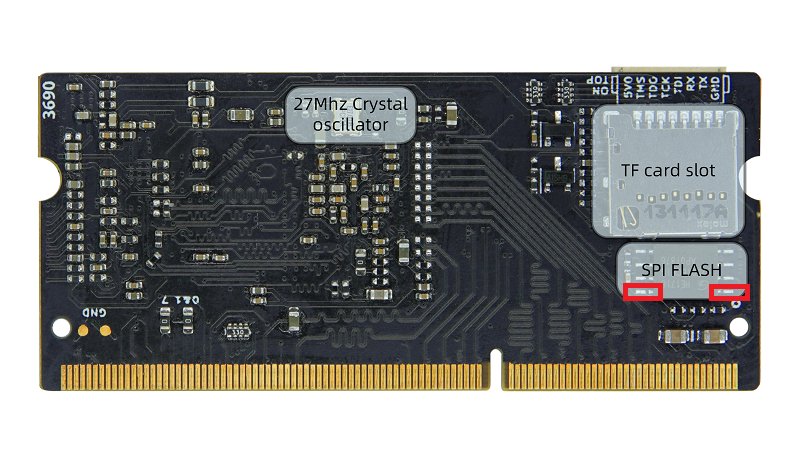
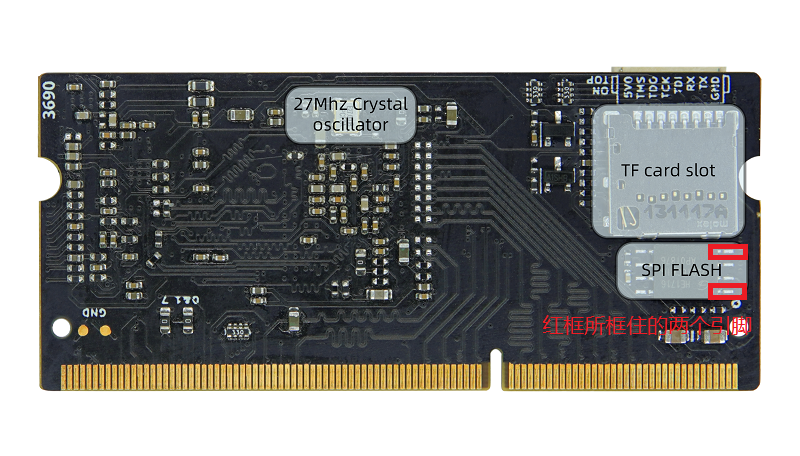
update

Changed region(s): [[0.6562, 0.614, 0.9375, 0.7368], [0.875, 0.5219, 0.9375, 0.5833]]

diff --git a/docs/hardware/zh/tang/tang-primer-20k/primer-20k.md b/docs/hardware/zh/tang/tang-primer-20k/primer-20k.md
@@ -277,9 +277,9 @@ Tang Primer 20K 是基于 [GW2A-V18PG256C8IC8I7](http://www.gowinsemi.com.cn/pro
 
 3. 如果进行完上面的点灯操作后后感觉有压力，可以自己查漏补缺：
    可以在下面的这些网站学习 Verilog:
-	+ 在线免费教程：[菜鸟教程](https://www.runoob.com/w3cnote/verilog-tutorial.html)（学习Verilog）
-	+ 在线免费 FPGA 教程：[Verilog](https://www.asic-world.com/verilog/index.html)
-	+ Verilog 刷题网站：[HDLBits](https://hdlbits.01xz.net/wiki/Main_Page)
+	+ 在线免费教程：[Verilog 教程](https://www.runoob.com/w3cnote/verilog-tutorial.html)（学习Verilog）
+	+ 在线免费 FPGA 教程：[Verilog](https://www.asic-world.com/verilog/index.html) （英文网站）
+	+ Verilog 刷题网站：[HDLBits](https://hdlbits.01xz.net/wiki/Main_Page)（英文网站）
 	+ 在线高云半导体视频教程：[点击这里](http://www.gowinsemi.com.cn/video_complex.aspx?FId=n15:15:26)
 
    对 IDE 使用有疑问的话，可以查看官方的一些文档来熟悉相关内容
@@ -294,11 +294,12 @@ Tang Primer 20K 是基于 [GW2A-V18PG256C8IC8I7](http://www.gowinsemi.com.cn/pro
 
 ## 例程汇总
 
-https://github.com/sipeed/TangPrimer-20K-example
+github 链接：https://github.com/sipeed/TangPrimer-20K-example
 
 部分教程：
 
 - Lite 底板点灯 ：<a href="https://wiki.sipeed.com/news/others/20k_lite_start/20k_lite_start.html" target="blank">点我跳转</a>
+- 例程指南: [点我跳转](./example.md)
 
 ## 交流方式
 
@@ -329,18 +330,22 @@ https://github.com/sipeed/TangPrimer-20K-example
 <!-- <img src="./assets/start/switch_1_on.png" alt="switch_1_on" width=20%> -->
 
 ### 如何下载到外部 FLASH
+
 进行如下选项设置：
 <img src="./assets/flash_mode.png" alt="flash_mode" width=75%>
 
 ### 烧录后没反应或者引脚现象不对
+
 首先确定选择了正确的型号，下图中的每一个参数都要求一致
 <img src="./assets/device_choose.png" alt="device_choose" width=75%>
 
 然后检查自己的代码和对应的仿真波形是否满足要求
 
 ### 成功烧录过一次外部 Flash 后 Programmer 软件无法再烧录
+
 注意描述是成功烧录过一次 Flash。
-这种情况默认为启用了错误的引脚复用而导致下载器不能再识别到 FPGA 的 JTAG。解决办法是在芯片通电前将核心板上的 Flash 使能引脚拉高来阻止 FPGA 加载固件。使用金属将板子上的 Flash 短接后再通电即可解决。短接的具体位置见下图 Flash 处两侧的红框处。
+
+这种情况默认为启用了错误的引脚复用而导致下载器不能再识别到 FPGA 的 JTAG。可以短接 Flash 的 1、4 引脚，让芯片上电时不能正常读 FLASH 。
 
 ![flash_cs](./assets/flash_cs.png)
 

diff --git a/docs/soft/maixpy/en/others/maixpy_faq.md b/docs/soft/maixpy/en/others/maixpy_faq.md
@@ -337,3 +337,31 @@ It's suggested to use camera provided by Sipeed, this can reduce many troubles l
 kmodel is a kind of model explaining the structure and parameters of this model.
 
 smodel requires Machine-code; Machine-code is a kind of encrypted way to encrypt the model. The development board can't use the smodel encrypted and generanted by other Machine-code.
+
+## How to run multiple models in the same time
+
+Try to run it in time-sharing instead of in the same time
+
+If the RAM is big enough to load target models, then load them all and run rhem in time-sharing.
+
+If the RAM is not big enough to load multiple models, try to load one model, and deinit it after finishing running it (use `kpu.deinit`), the load another model or rest models(if the RAM is big enough). Use `load_flash` mode to load model, read content from flash.
+
+## How to load big model
+
+Beacuse the limit of RAM in K210, if need load big model, try to load it from flash and run it.
+
+The detailed usage can be found in github: [Click me](https://github.com/sipeed/MaixPy_scripts/tree/master/machine_vision/load_big_model)
+
+## could not open port 'COMxx':Permission denied
+
+This happens when the serial port is occupied. Try to close application which is using this serial port, or try to reboot computer to close all applications to avoid serial port occupied.
+
+## Maix Dock serial port connect failed
+
+Maix Dock cannot use MobaXterm or other software which does not support manual serial port flow control for serial communication.
+
+To avoid wasting time, it is recommended to use MaixPy IDE for communication.
+
+You can open terminal in MaixPy IDE top menu bar tools->open terminals->new terminal->Connect to serial ports ->select the correct serial port->baudrate 115200, to create a new terminal.
+
+![sipeed_maix_dock_terminal](./../../assets/hardware/maix_dock/sipeed_maix_dock_terminal.png)

diff --git a/docs/soft/maixpy/zh/others/maixpy_faq.md b/docs/soft/maixpy/zh/others/maixpy_faq.md
@@ -318,12 +318,30 @@ Maixpy ide 挂着运行时内存不足，就会出现的常见错误，解决方
 
 ## 如何同时运行多个模型
 
-其实也不是同时运行，就是分时运行。
+其实也不是同时运行，而是分时运行。
 
 如果有足够内存，就一次性把几个模型加载到内存， 然后分别分时运行推理。
 
 如果内存不足，加载第一个模型，运行后注销（使用 `kpu.deinit`），再加载运行第二个模型部分或全部模型。使用 `load_flash` 的方式加载模型，实时从 flash 读取内容。
 
+## 如何加载大模型
+
+由于 K210 的 RAM 的运行限制，当需要加载大模型文件时，可以通过直接 Flash 中动态加载并运行。
+
+具体用法前往 github:
+
+使用说明:[点我github](https://github.com/sipeed/MaixPy_scripts/blob/master/machine_vision/load_big_model/README_ZH.md)
+具体仓库:[点我github](https://github.com/sipeed/MaixPy_scripts/tree/master/machine_vision/load_big_model)
+
 ## could not open port 'COMxx':Permission 错误
 
 这种情况是因为串口被占用了，自己将使用过串口的程序关闭掉就行。实在不会解决的话重启电脑也能达到关闭所有使用串口程序的效果。
+
+## Maix Dock 串口不能用
+
+Maix Dock 不能使用 MobaXterm 或其他 不支持手动串口流控制的软件 来进行串口通信。
+为了不浪费时间，建议使用 MaixPy IDE 来进行通信。
+
+可以在 MaixPy IDE 顶部菜单栏 工具->打开终端->新终端->连接到串口->选择正确的串口->115200波特率 来新建一个终端，在这里面使用串口。
+
+![sipeed_maix_dock_terminal](./../../assets/hardware/maix_dock/sipeed_maix_dock_terminal.png)

diff --git a/docs/hardware/zh/tang/Tang-Nano-Doc/questions.md b/docs/hardware/zh/tang/Tang-Nano-Doc/questions.md
@@ -16,9 +16,6 @@ update:
       - 更新部分过期内容
 ---
 
-
-> 编辑于2022.06.29
-
 这里汇总一些常见问题，持续更新
 
 ## Programmer 相关
@@ -76,6 +73,33 @@ update:
 ![educational_edition_programmer](./../tang-primer-20k/assets/start/educational_edition_programmer.png)
 
 对于 20K 核心板来说可能是接线错了，自己检查一下线序或者检查一下核心板的 8pin 接口有没有被怼歪。
+
+20K 核心板 JTAG 引脚定义可以在背部看到。
+
+<table>
+    <tr>
+        <td>核心板</td>
+        <td>5V0</td>
+        <td>TMS</td>
+        <td>TDO</td>
+        <td>TCK</td>
+        <td>TDI</td>
+        <td>RX</td>
+        <td>TX</td>
+        <td>GND</td>
+    </tr>
+    <tr>
+        <td>调试器</td>
+        <td>5V0</td>
+        <td>TMS</td>
+        <td>TDO</td>
+        <td>TCK</td>
+        <td>TDI</td>
+        <td>TX</td>
+        <td>RX</td>
+        <td>GND</td>
+    </tr>
+</table>
 
 ![cable_connect](./../tang-primer-20k/examples/assets/led_assets/cable_connect.png)
 

diff --git a/docs/hardware/zh/tang/tang-primer-20k/examples/assign_led.md b/docs/hardware/zh/tang/tang-primer-20k/examples/assign_led.md
@@ -241,7 +241,10 @@ Dock 板载了下载器，在 [安装IDE](https://wiki.sipeed.com/hardware/zh/ta
 确认自己使能了核心板。
 
 ### 成功烧录过一次外部 Flash 后 Programmer 软件无法再烧录
+
 注意描述是成功烧录过一次 Flash。
-这种情况默认为启用了错误的引脚复用而导致下载器不能再识别到 FPGA 的 JTAG。解决办法是在芯片通电前将核心板上的 Flash 使能引脚拉高来阻止 FPGA 加载固件。使用金属将板子上的 Flash 短接后再通电即可解决。短接的具体位置见下图 Flash 处两侧的红框处。
+这种情况默认为启用了错误的引脚复用而导致下载器不能再识别到 FPGA 的 JTAG。可以短接 Flash 的 1、4 引脚，让芯片上电时不能正常读 FLASH 。
 
 ![flash_cs](./../assets/flash_cs.png)
+
+### 更多问题及其解决办法前往[相关问题](./../Tang-Nano-Doc/questions.md)查看

diff --git a/docs/soft/Lichee/zh/Nano-Doc-Backup/build_sys/onekey.md b/docs/soft/Lichee/zh/Nano-Doc-Backup/build_sys/onekey.md
@@ -1,6 +1,5 @@
 # 一键烧录及脚本使用说明
 
-
 材料准备：    
 - 内存卡+读卡器+荔枝派Nano+支持完整指令集的x86设备一台（电脑）
 
@@ -35,7 +34,7 @@ xxxx:这个镜像适用于什么分辨率的LCD上
 
 若flash中已有系统，可通过：
 
-1. 短接flash的 1、4 两脚，重新上电，上电后松开短接，即可重新进入fel模式，进行再次下载
+1. 短接flash的 1、4 两脚，然后重新上电，上电后松开短接，即可重新进入fel模式，进行再次下载
 2. 在启动到内核前，回车进入uboot，执行 `sf probe 0;sf erase 0 0x100000;reset`即可重新进入fel模式
 
 ## 一键烧录镜像(win环境---TF卡启动)

diff --git a/docs/soft/Lichee/zh/Nano-Doc-Backup/get_started/first_eat.md b/docs/soft/Lichee/zh/Nano-Doc-Backup/get_started/first_eat.md
@@ -1,6 +1,5 @@
 # 前言
 
-
 此篇为少量或无需配置的开发，可帮助您快速上手，串口输出、点屏等操作确认 Nano 完好~
 具体详细配置与解释说明，将在后文进行较为详细的介绍；如果您和笔者一样是个小白萌新，希望能给您的学习提供一点小小的tips；如果您已熟悉此流程，快速浏览即可 :)
 笔者所用环境为：
@@ -323,7 +322,8 @@ popd
 ```
 
 #### 下载并运行
-1. 短接flash 1、4脚(当flash中无可引导代码时无需此步骤)
+
+1. 短接 flash 1、4 脚(当flash中无可引导代码时无需此步骤)
 2. 连接USB
 3. 松开短接的引脚
 4. 输入下列指令

diff --git a/docs/soft/Lichee/zh/Zero-Doc/Start/docker_command.md b/docs/soft/Lichee/zh/Zero-Doc/Start/docker_command.md
@@ -2,7 +2,7 @@
 title: Docker命令速查
 ---
 
-# Docker概念
+## Docker 概念
 
 
 `镜像` ：只读的模板
@@ -12,7 +12,7 @@ title: Docker命令速查
 
 ## Docker 安装
 
-```
+```bash
 sudo apt-get install docker.io      
 sudo gpasswd -a your_user_name docker       #加入用户组
 sudo service docker restart     
@@ -25,8 +25,7 @@ docker下各文件默认存放在/var/lib/docker下
 
 ## Docker镜像操作
 
-
-```
+```bash
 docker search licheepi       #搜索镜像
 docker pull zepan/licheepi       #下载镜像
 docker run zepan/licheepi apt-get install -y xxx     #在镜像中执行命令，安装某软件

diff --git a/docs/soft/Lichee/zh/Zero-Doc/Contribution/article_2.md b/docs/soft/Lichee/zh/Zero-Doc/Contribution/article_2.md
@@ -4,7 +4,6 @@ title: Zero i2c oled使用指南
 
 ## 硬件连接
 
-
 一般市面上买到的单色oled屏幕模块一般都是同时支持spi和i2c接口的，而默认一般都是spi接口模式，需要根据说明书调整模模块上电阻的位置来转换到i2c模式。我手中这个模块一般比较常见，分辨率是128\*64，需要焊接R1和R4，注意下方那个电阻位置要短接。
 
 ![](./../static/Contribution/article_17.jpg)

diff --git a/news/others/20k_lite_start/20k_lite_start.md b/news/others/20k_lite_start/20k_lite_start.md
@@ -273,6 +273,7 @@ endmodule
 ### 接线说明
 
 由于需要将核心板与下载器进行连线，这里说明一下所连接的对应端口。
+核心板的引脚可以在核心板背面看到。
 
 <table>
     <tr>

diff --git a/docs/soft/Lichee/zh/Zero-Doc/Start/intro_cn.md b/docs/soft/Lichee/zh/Zero-Doc/Start/intro_cn.md
@@ -1,7 +1,5 @@
 # 荔枝派Zero
 
-> 作者自述~~ 陈年旧文
-
 ## 缘起
 
 那年仲夏之夜，我吃着荔枝DIY了荔枝派One。
